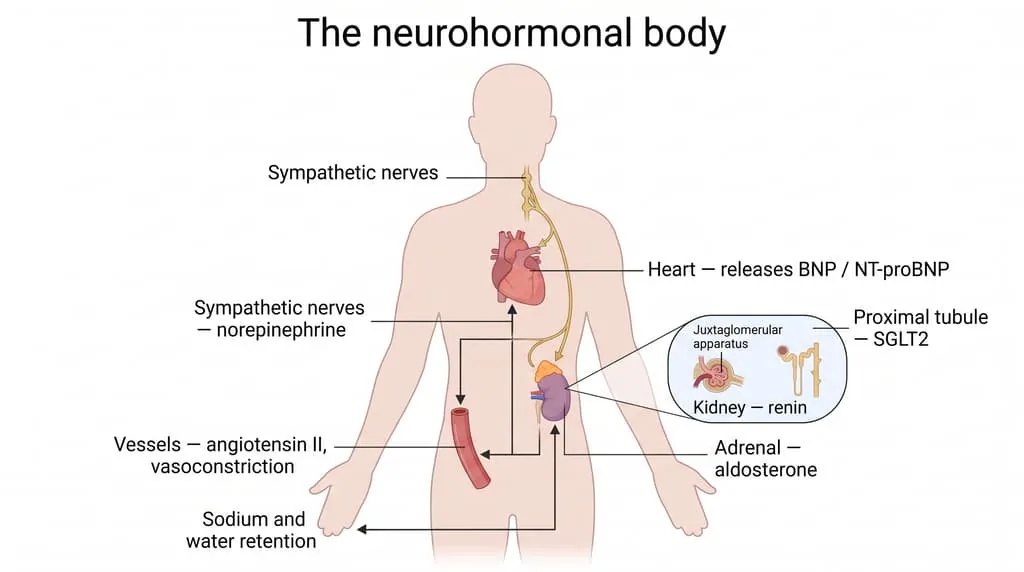
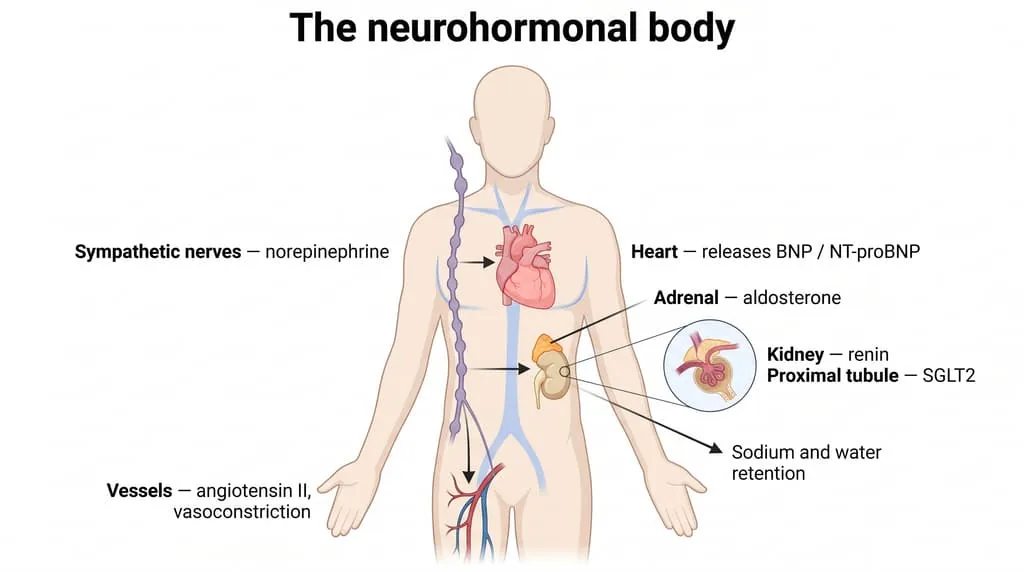
hf pilot: corrected summary, nephron and neurohormonal plates; devices and LVAD fall back to site SVG
Claude-Session: https://claude.ai/code/session_01CMoRt9j7AKk9qpoDyskebV

diff --git a/hf/index.html b/hf/index.html
@@ -157,7 +157,7 @@ details .trial{margin:8px 0 12px}
 .pwrap{position:relative}
 .plate img{display:block;width:100%;height:auto;border-radius:8px}
 .credit{display:block;font-family:var(--mono);font-size:11px;color:var(--muted);text-align:right;margin:4px 2px 0}
-.hot{position:absolute;transform:translate(-50%,-50%);width:28px;height:28px;border-radius:50%;border:2px solid var(--card);background:var(--accent);color:var(--accent-ink);font:inherit;font-family:var(--mono);font-size:12.5px;font-weight:700;cursor:pointer;padding:0;box-shadow:0 0 0 2px var(--accent)}
+.hot{position:absolute;transform:translate(-50%,-50%);width:24px;height:24px;border-radius:50%;border:2px solid var(--card);background:var(--accent);color:var(--accent-ink);font:inherit;font-family:var(--mono);font-size:12.5px;font-weight:700;cursor:pointer;padding:0;box-shadow:0 0 0 2px var(--accent)}
 .hot:focus-visible,.popt:focus-visible,.mcell:focus-visible,.rr:focus-visible,.sbx:focus-visible{outline:2px solid var(--accent);outline-offset:2px}
 .hotlist{display:flex;flex-wrap:wrap;gap:6px;margin-top:12px}
 .hotlist .chip[aria-pressed="true"]{border-color:var(--accent);color:var(--accent);font-weight:600}
@@ -208,7 +208,7 @@ details .trial{margin:8px 0 12px}
 .mdet p{margin:0 0 6px;font-size:14.5px}
 .mdet .k{display:block;font-size:11.5px;letter-spacing:.05em;text-transform:uppercase;color:var(--muted)}
 .sumcard .plate{margin-top:6px}
-@media (min-width:900px){.mgrid{grid-template-columns:repeat(3,1fr)}}
+@media (min-width:900px){.mgrid{grid-template-columns:repeat(3,1fr)}.hot{width:30px;height:30px}}
 </style>
 </head>
 <body>
@@ -882,17 +882,14 @@ document.addEventListener('DOMContentLoaded', function(){
    Plates: BioRender illustrations in /media/hf/. Everything interactive is site SVG or HTML and reads the
    tool's own engine and data (daily, stage, admitHtml, shockHtml, AGENTS, MCS, MIMICS, TR, FIG). */
 var PLATES = {
- summary: {t: 'Heart failure on one page', src: '/media/hf/summary.webp', alt: 'A torso with the heart in the centre and two small insets labelled HFrEF and HFpEF. Arrows run from the heart to the lungs, neck veins, liver, gut and legs. A chain on the right: low cardiac output, sympathetic nerves, kidney releases renin, angiotensin II, adrenal releases aldosterone, sodium and water retention, with beta-blocker, SGLT2 inhibitor, ARNI or ACE inhibitor or ARB, and MRA beside the steps they block.', cap: 'Two ways to fail, one set of consequences: back-pressure into the organs (congestion) and a neurohormonal loop that retains salt and water. Three of the four pillars block a step of that loop; the SGLT2 inhibitor acts in the proximal tubule.', src2: 'Standard physiology; drug sites per the 2024 ACC HFrEF pathway.'},
- body: {t: 'The neurohormonal body', src: '/media/hf/neurohormonal-body.webp', alt: 'Front view of a body with the sympathetic chain, heart, adrenal gland on the kidney, a vessel, and a zoom of the kidney showing the juxtaglomerular apparatus and the proximal tubule.', cap: 'Tap a numbered site, or a name below, for what it does and the drug that blocks it.', src2: 'Standard physiology; drug actions per the 2024 ACC HFrEF pathway.',
-  hot: [[51, 33, 'Sympathetic nerves', 'bb'], [51, 47, 'Heart: natriuretic peptides', 'np'], [46, 78, 'Vessels: angiotensin II', 'ras'], [53.5, 63, 'Adrenal: aldosterone', 'mra'], [70, 63, 'Kidney: renin', 'ras'], [80, 62, 'Proximal tubule: SGLT2', 'sglt']]},
+ summary: {t: 'Heart failure on one page', src: '/media/hf/summary.webp', alt: 'A torso with the heart in the centre and two small insets labelled HFrEF and HFpEF. Arrows run from the heart to the lungs, neck veins, liver, gut and legs. A chain on the right: low cardiac output, sympathetic nerves (beta-blocker), kidney releases renin, angiotensin II (ARNI, ACE inhibitor or ARB), adrenal releases aldosterone (MRA), sodium and water retention, with the SGLT2 inhibitor shown on a side branch as acting in the proximal tubule, outside this loop.', cap: 'Two ways to fail, one set of consequences: back-pressure into the organs (congestion) and a neurohormonal loop that retains salt and water. Three of the four pillars block a step of that loop; the SGLT2 inhibitor acts in the proximal tubule.', src2: 'Standard physiology; drug sites per the 2024 ACC HFrEF pathway.'},
+ body: {t: 'The neurohormonal body', src: '/media/hf/neurohormonal-body.webp', alt: 'Front view of a body: the sympathetic chain beside the spine with nerves to the heart, kidney and pelvic vessels; the heart releasing BNP and NT-proBNP; the adrenal gland on the kidney releasing aldosterone; a zoom of the kidney for renin and the proximal tubule SGLT2; one arrow from the kidney for sodium and water retention.', cap: 'Tap a numbered site, or a name below, for what it does and the drug that blocks it.', src2: 'Standard physiology; drug actions per the 2024 ACC HFrEF pathway.',
+  hot: [[44.5, 45, 'Sympathetic nerves', 'bb'], [51, 46, 'Heart: natriuretic peptides', 'np'], [45.5, 85, 'Vessels: angiotensin II', 'ras'], [52.4, 57, 'Adrenal: aldosterone', 'mra'], [69, 62, 'Kidney: renin', 'ras'], [54, 70, 'Kidney: proximal tubule SGLT2', 'sglt']]},
  ventricles: {t: 'Two ways to fail', src: '/media/hf/two-ways-to-fail.webp', alt: 'Three left ventricles in short and long axis: normal; HFrEF dilated and thin-walled with a weak squeeze; HFpEF small cavity, thick wall, enlarged left atrium, stiff and filling poorly.', cap: 'HFrEF: the ventricle dilates and its wall thins (eccentric remodelling), so it squeezes weakly. HFpEF: the wall often thickens and stiffens, so the atrium works harder to fill it and enlarges.', src2: 'Standard anatomy; schematic.'},
- nephron: {t: 'Where diuretics work', src: '/media/hf/diuretic-sites.webp', alt: 'A nephron with drug sites: carbonic anhydrase and acetazolamide and SGLT2 in the proximal tubule; NKCC2 and loop diuretics in the thick ascending limb; NCC and thiazides in the distal convoluted tubule, noted to hypertrophy with chronic loop diuretic use; ENaC and amiloride and the mineralocorticoid receptor and MRA in the collecting duct.', cap: 'A loop diuretic blocks NKCC2, where up to a quarter of filtered sodium is reabsorbed. With chronic use the distal tubule grows and reclaims that sodium, which is why a thiazide-type drug at a second site can restore the response (sequential blockade has not been tested in large outcome trials).', src2: 'Ellison and Felker, N Engl J Med 2017;377:1964 (doi 10.1056/NEJMra1703100). Schematic.'},
- devices: {t: 'Where the devices sit', src: '/media/hf/support-devices.webp', alt: 'Three panels. IABP: a balloon in the descending thoracic aorta from the femoral artery, inflating in diastole and deflating before systole. Impella: a catheter from the femoral artery across the aortic valve pumping from the left ventricle to the aorta. VA-ECMO: a femoral venous cannula draining the right atrium to an external pump and oxygenator, returning blood to the femoral artery.', cap: 'IABP lowers afterload but does not directly unload the ventricle; Impella unloads it directly; VA-ECMO gives the most flow but returns blood against the ventricle, raising afterload.', src2: 'Placement: 2025 ACC shock guidance 4.6, Figure 6. Effects: this tool\'s device table. Schematic.'},
- lvad: {t: 'The LVAD', src: '/media/hf/lvad.webp', alt: 'A durable LVAD: inflow cannula at the left ventricular apex, centrifugal pump at the apex, outflow graft to the ascending aorta, driveline tunnelled to an exit site on the upper abdomen, external controller and battery.', cap: 'Tap a numbered part, or a name below.', src2: 'HFA of the ESC position paper 2021; schematic.',
-  hot: [[51, 29, 'Ascending aorta', 'ao'], [56, 38, 'Outflow graft', 'out'], [52, 45, 'Inflow cannula', 'in'], [55, 52, 'Pump', 'pump'], [58, 61, 'Driveline', 'dl'], [59, 70, 'Driveline exit site', 'exit'], [57, 79, 'Controller', 'ctl'], [57, 89, 'Battery', 'bat']]},
+ nephron: {t: 'Where diuretics work', src: '/media/hf/diuretic-sites.webp', alt: 'A nephron with drug sites: carbonic anhydrase and acetazolamide and SGLT2 in the proximal tubule; NKCC2 and loop diuretics in the thick ascending limb; NCC and thiazides in the distal convoluted tubule, noted to hypertrophy with chronic loop diuretic use; a collecting duct principal cell with ENaC moving sodium in from the lumen (amiloride) and the mineralocorticoid receptor inside the cell, bound by aldosterone and blocked by an MRA.', cap: 'A loop diuretic blocks NKCC2, where up to a quarter of filtered sodium is reabsorbed. With chronic use the distal tubule grows and reclaims that sodium, which is why a thiazide-type drug at a second site can restore the response (sequential blockade has not been tested in large outcome trials).', src2: 'Ellison and Felker, N Engl J Med 2017;377:1964 (doi 10.1056/NEJMra1703100). Schematic.'},
  receptors: {t: 'Vasoactive drugs: which receptor', grid: true, cap: 'Tap a drug for its net effect. Dots are relative receptor activity as graded in the 2025 ACC shock guidance.', src2: 'Receptor grades and net effects: 2025 ACC shock guidance, Table 2.'}
 };
-var PLATE_FOR = {loop: ['ventricles'], neuro: ['body'], nephron: ['nephron'], mcs: ['devices', 'receptors'], lvadfig: ['lvad']};
+var PLATE_FOR = {loop: ['ventricles'], neuro: ['body'], nephron: ['nephron'], mcs: ['receptors']};
 var DOSE = {}; DOSES.forEach(function(d){ DOSE[d[0]] = d; });
 function doseRows(names){ return names.filter(function(n){ return DOSE[n]; }).map(function(n){ var d = DOSE[n]; return '<li>' + d[0] + ': <span class="mono">' + d[1] + ' → ' + d[2] + '</span></li>'; }).join(''); }
 function takeLines(ks){ return ks.filter(function(k){ return TR[k]; }).map(function(k){ return '<li><b>' + k + '</b> ' + TR[k][4] + '</li>'; }).join(''); }
@@ -979,7 +976,7 @@ var FLOWS = {
  shock: {t: 'Walk a shock call', steps: [
   {q: 'Systolic 84 for 40 minutes, cold extremities, lactate 3.1. Which SCAI stage?', a: function(){ var s = eng().stage.stage; return ['B', 'C', 'D'].map(function(x){ return ['Stage ' + x, x === s ? 1 : 0]; }); }, show: function(){ return shockHtml({sbp: 84, cold: true, lactate: 3.1}); }},
   {q: 'Which receptor profile fits a hypotensive, cold patient?', reveal: 'Open the receptor grid', show: function(){ return recGrid() + '<p class="note">' + PLATES.receptors.src2 + '</p>'; }},
-  {q: 'If drugs are not enough, where would each device sit, and what does it do to the ventricle?', reveal: 'Show the devices', show: function(){ return plateImg('devices') + '<ul>' + MCS.slice(0, 4).map(function(m){ return '<li><b>' + m[0] + '</b> <span class="mono">' + m[1] + '</span> · ' + m[2] + '</li>'; }).join('') + '</ul><p class="label" style="margin-top:10px">The trials</p><ul>' + takeLines(['DanGer Shock', 'ECLS-SHOCK']) + '</ul>'; }}
+  {q: 'If drugs are not enough, where would each device sit, and what does it do to the ventricle?', reveal: 'Show the devices', show: function(){ return figBody(FIG.mcs, 0) + '<ul>' + MCS.slice(0, 4).map(function(m){ return '<li><b>' + m[0] + '</b> <span class="mono">' + m[1] + '</span> · ' + m[2] + '</li>'; }).join('') + '</ul><p class="label" style="margin-top:10px">The trials</p><ul>' + takeLines(['DanGer Shock', 'ECLS-SHOCK']) + '</ul>'; }}
  ]}
 };
 var FS = {admit: 0, shock: 0};
